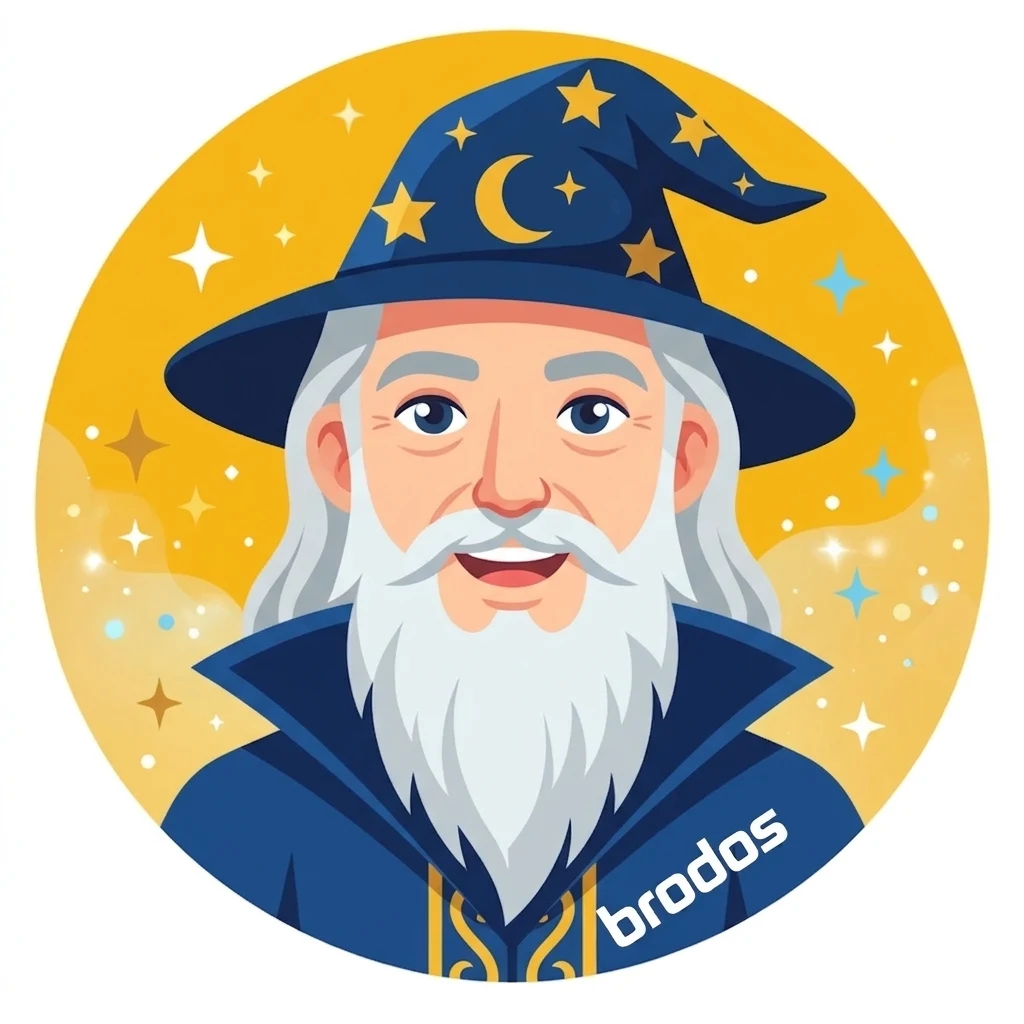
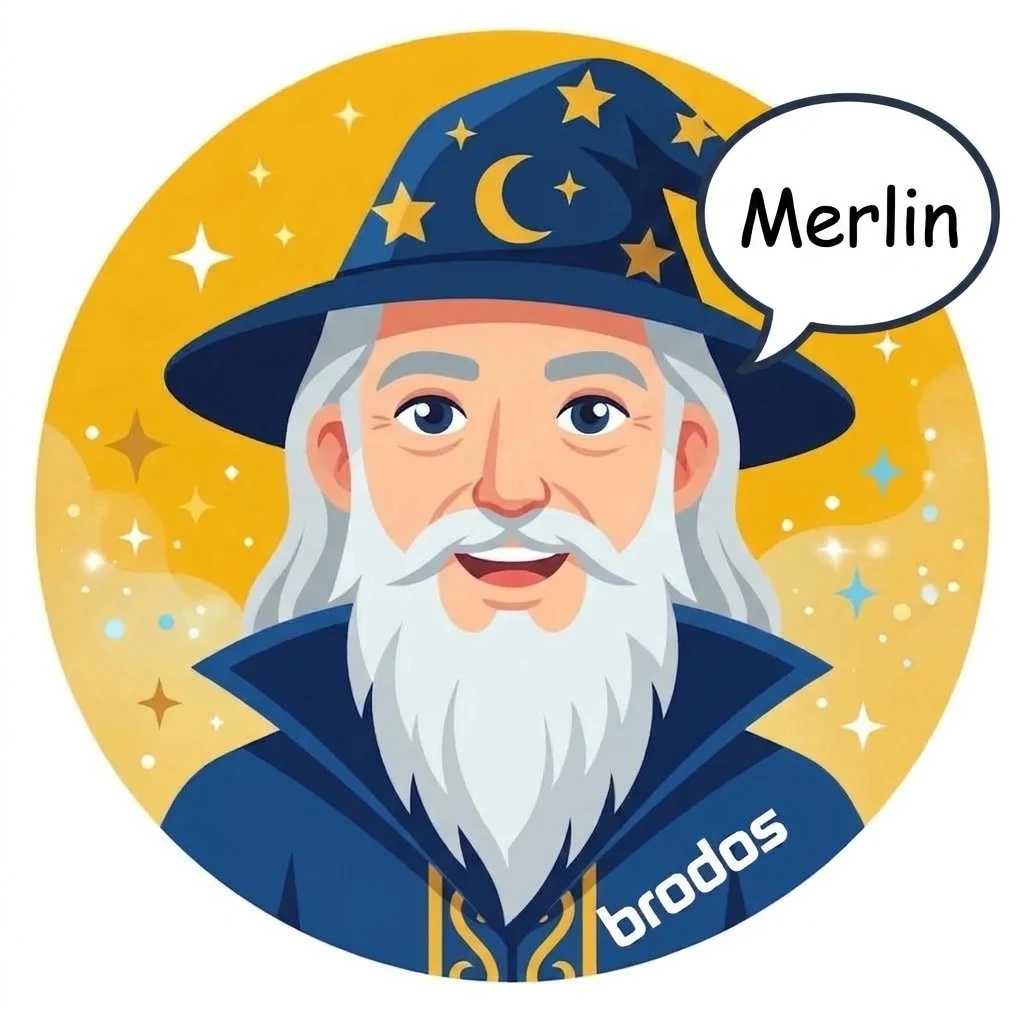
Führung: überarbeitetes Bild e (Sprechblase), Ausschnitt so, dass die Blase nicht abgeschnitten wird

diff --git a/public/js/fuehrung-stationen.js b/public/js/fuehrung-stationen.js
@@ -31,7 +31,7 @@ export const FUEHRUNG = [
   },
   {
     text: "Ihr könnt mich jederzeit mit meinem Namen ansprechen. Sagt einfach „Merlin“ und dann, was ihr braucht, zum Beispiel einen Bereich öffnen, ein Tu-Du anlegen oder abhaken. Ich führe es für euch aus.",
-    bilder: [{ datei: "e.webp", titel: "Merlin, der Zauberer", x: 68, y: 47, groesse: 52, von: "rechts", nach: 3000 }],
+    bilder: [{ datei: "e.webp", titel: "Merlin, der Zauberer", x: 68, y: 47, groesse: 52, von: "rechts", zoom: 0.92, nach: 3000 }],
   },
   {
     text: "Wir haben auch eine Pinnwand. Dort findet ihr die Infodateien, die ihr vorher eingereicht habt, und könnt sie jederzeit abrufen.",
